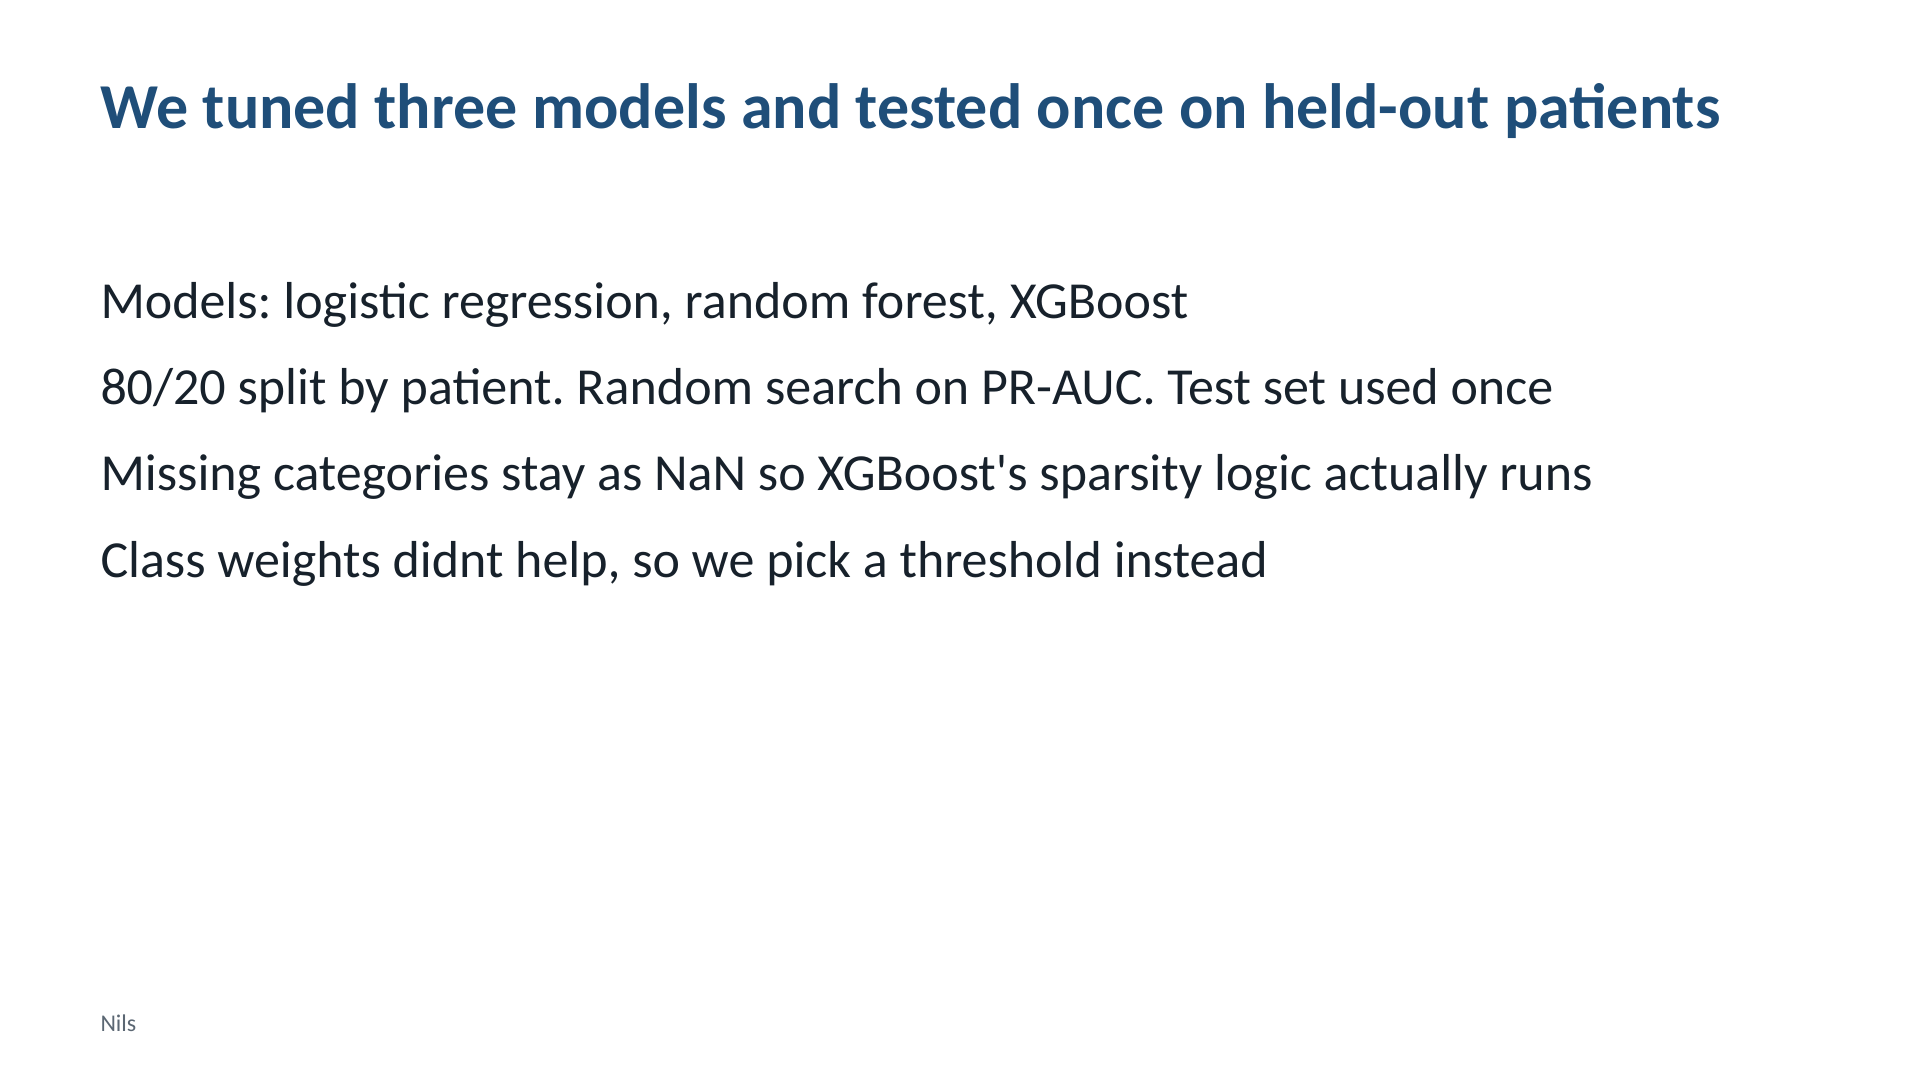
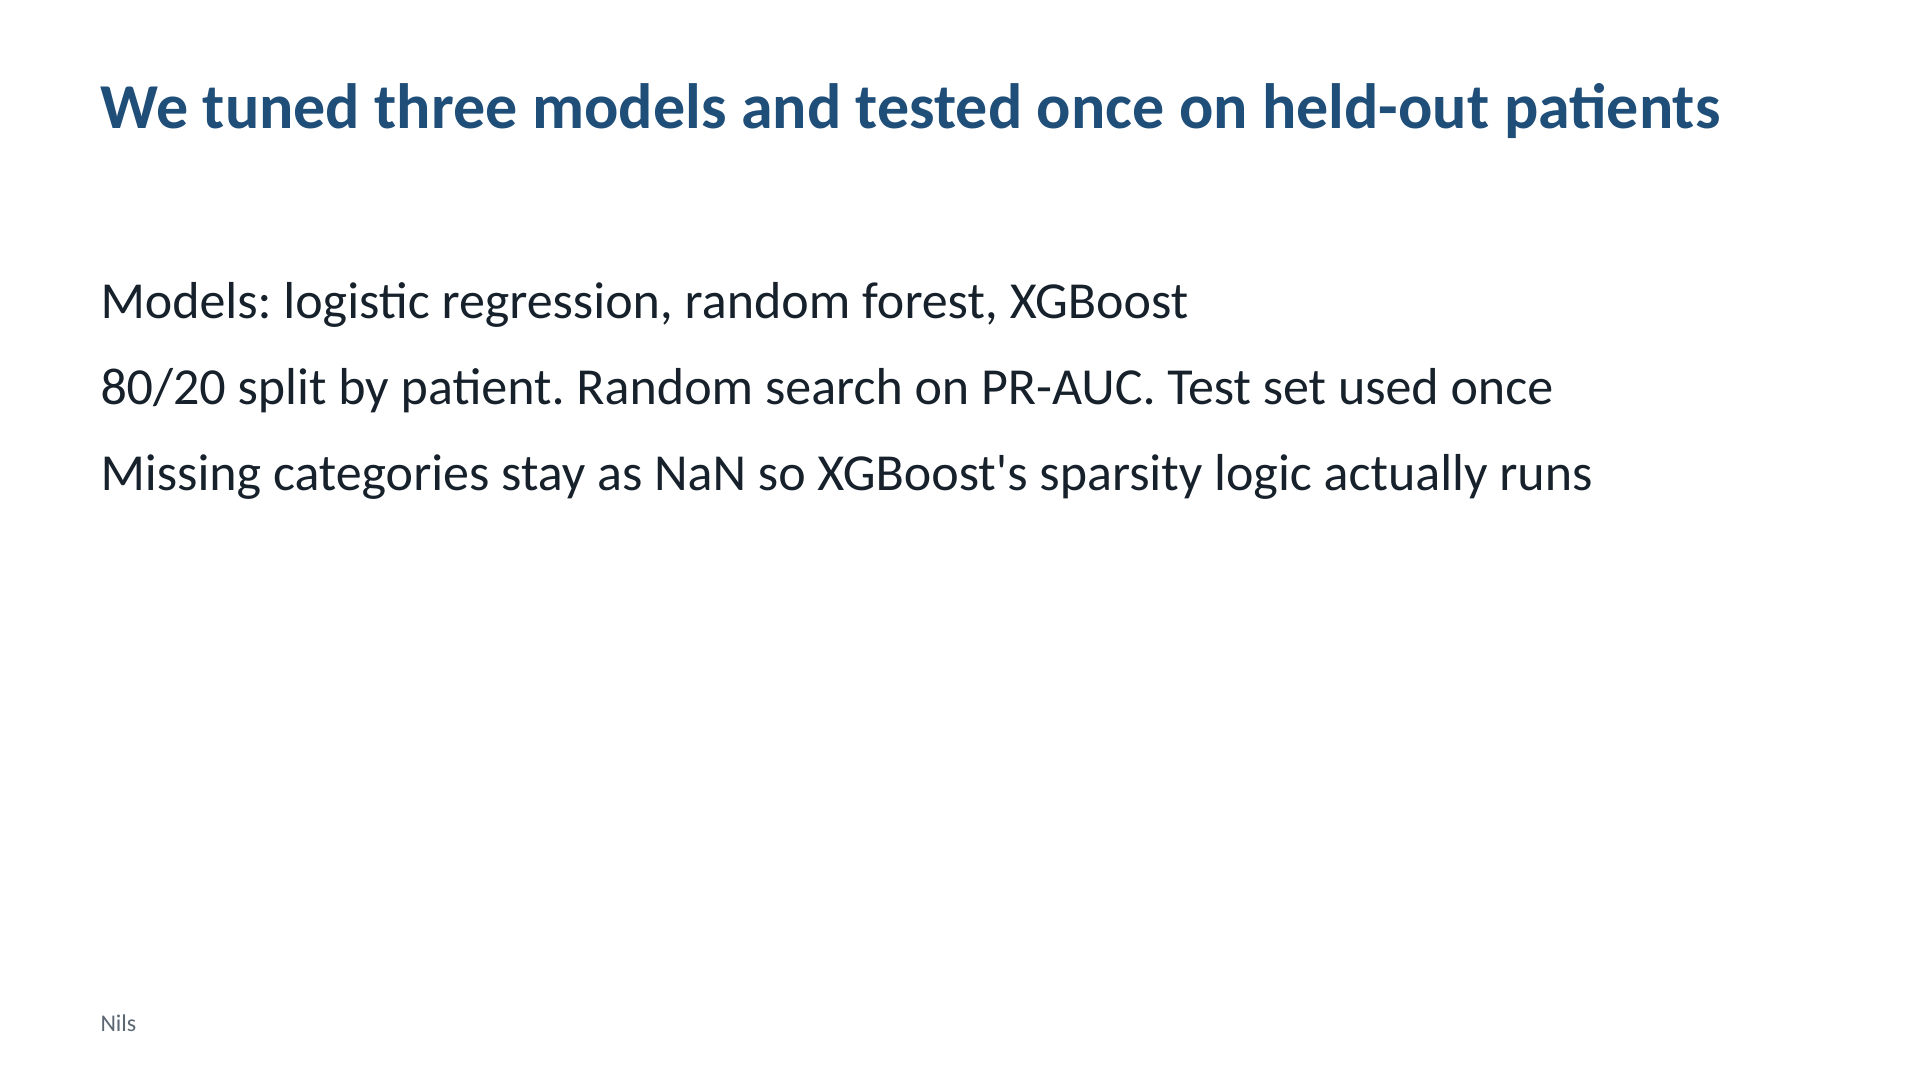
/171: move class-imbalance point to slide 8
Claude-Session: https://claude.ai/code/session_0111TAVU8yJj7tuCTwVDwnJ2

Changed region(s): [[0.0625, 0.4889, 0.6562, 0.55]]

diff --git a/lib/readmission/slides.ts b/lib/readmission/slides.ts
@@ -27,7 +27,7 @@ export const slides: Slide[] = [
   },
   {
     "title": "We tuned three models and tested once on held-out patients",
-    "notes": "Nils: We hold out 20 percent of patients as a test set and use it one time at the end. We tune with random search, grouped by patient. For missing values we made all of a missing category's one hot columns NaN. If theyre just zeros, XGBoost never sees a missing value at all. Class weights didnt help any model's PR-AUC, so we handle imbalance by choosing the threshold instead.",
+    "notes": "Nils: We hold out 20 percent of patients as a test set and use it one time at the end. We tune with random search, grouped by patient. For missing values we made all of a missing category's one hot columns NaN. If theyre just zeros, XGBoost never sees a missing value at all.",
     "image": "/171/slide-05.png",
     "demo": false
   },
@@ -45,7 +45,7 @@ export const slides: Slide[] = [
   },
   {
     "title": "Prior visits and discharge destination drive the model, and it's a ranking tool",
-    "notes": "Alex: The top features are prior inpatient visits and discharge destination. At the best F1 threshold we flag 26 percent of encounters and catch about half of readmissions. So about 1 in 5 flags is correct. If staff could only follow up with the top 5 percent, 38 percent of those are real, about 3.3 times the base rate. So it's most useful for ordering a follow up list.",
+    "notes": "Alex: Readmissions are rare, so I tested class weights for all three models. They didnt improve PR-AUC for any of them, so we handle the imbalance by choosing the threshold instead, the one with the best F1. The top features are prior inpatient visits and discharge destination. At that threshold we flag 26 percent of encounters and catch about half of readmissions. So about 1 in 5 flags is correct. If staff could only follow up with the top 5 percent, 38 percent of those are real, about 3.3 times the base rate. So it's most useful for ordering a follow up list.",
     "image": "/171/slide-08.png",
     "demo": false
   },
